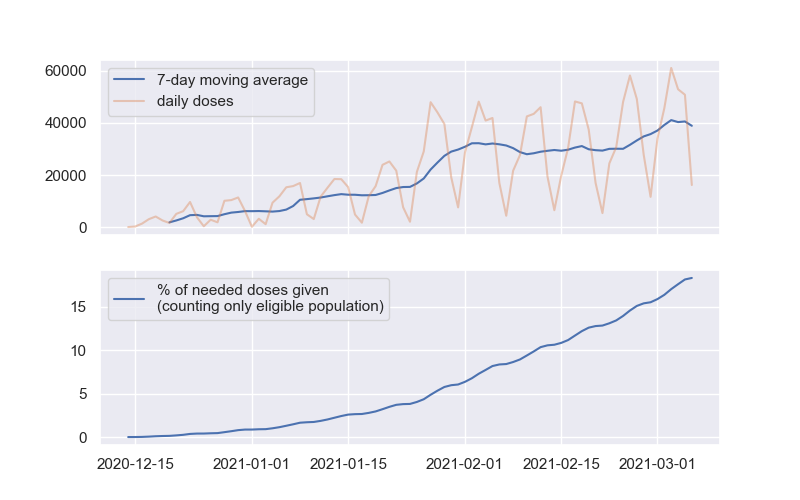
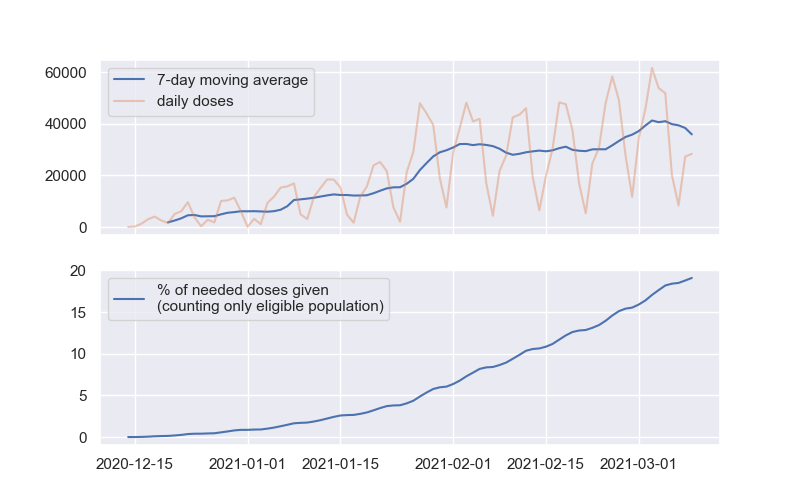
2021-03-10

diff --git a/README.md b/README.md
@@ -10,10 +10,10 @@ Raw data was obtained from https://www.dhs.wisconsin.gov/covid-19/vaccine-data.h
 
 ```
 $ python trax.py
-Data up through 2021-03-06, recent data is usually corrected to be higher
-38922 average doses per day over past 7 days (+4082 compared to 2 weeks ago)
-36.5 weeks (2021-11-16) for EVERY PERSON to get 2 doses
-27.9 weeks (2021-09-17) for all eligible people (over 16 years old) to get 2 doses
+Data up through 2021-03-09, recent data is usually corrected to be higher
+35926 average doses per day over past 7 days (-3438 compared to 2 weeks ago)
+39.2 weeks (2021-12-08) for EVERY PERSON to get 2 doses
+30.0 weeks (2021-10-04) for all eligible people (over 16 years old) to get 2 doses
 ```
 
 # Charts
